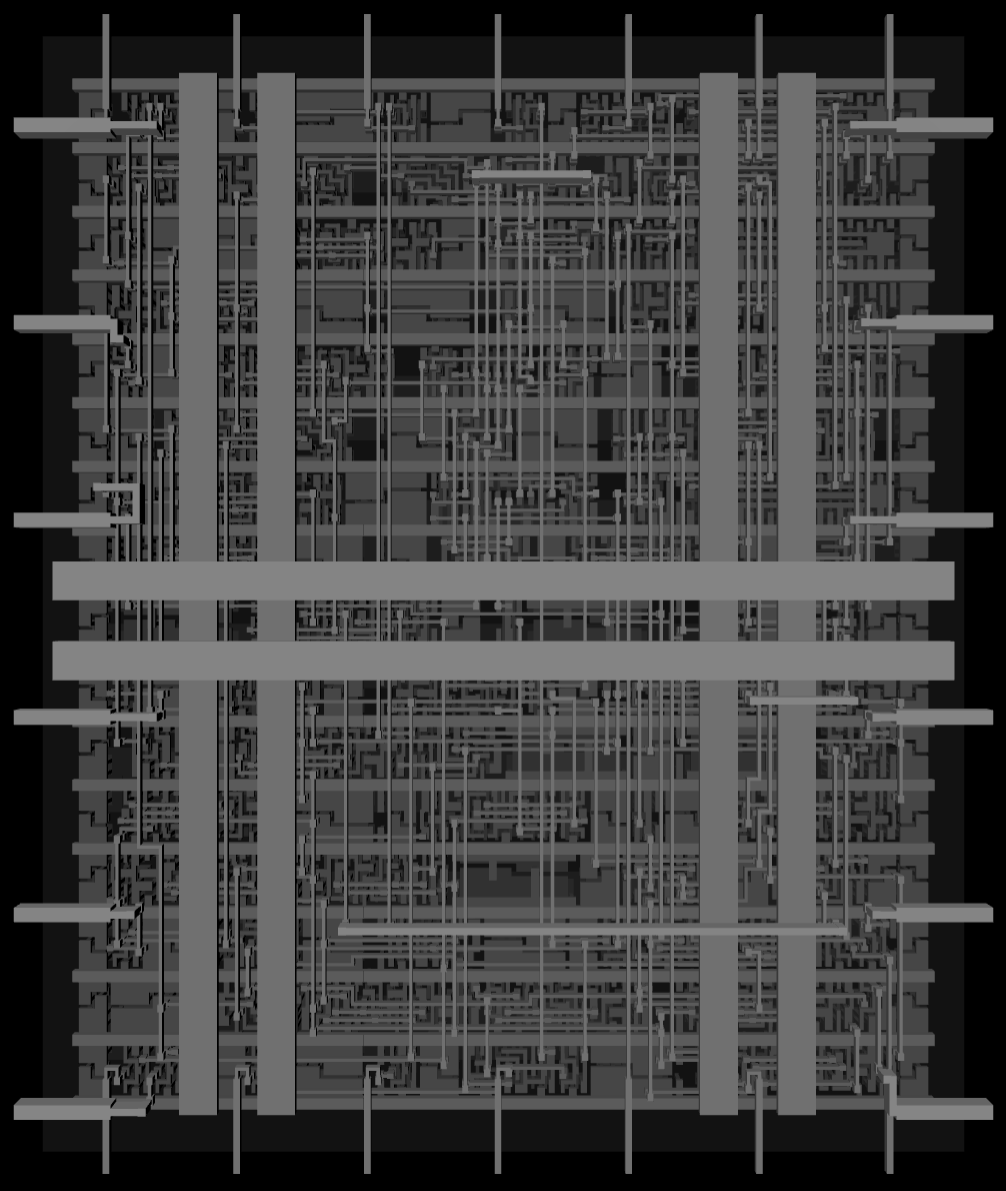
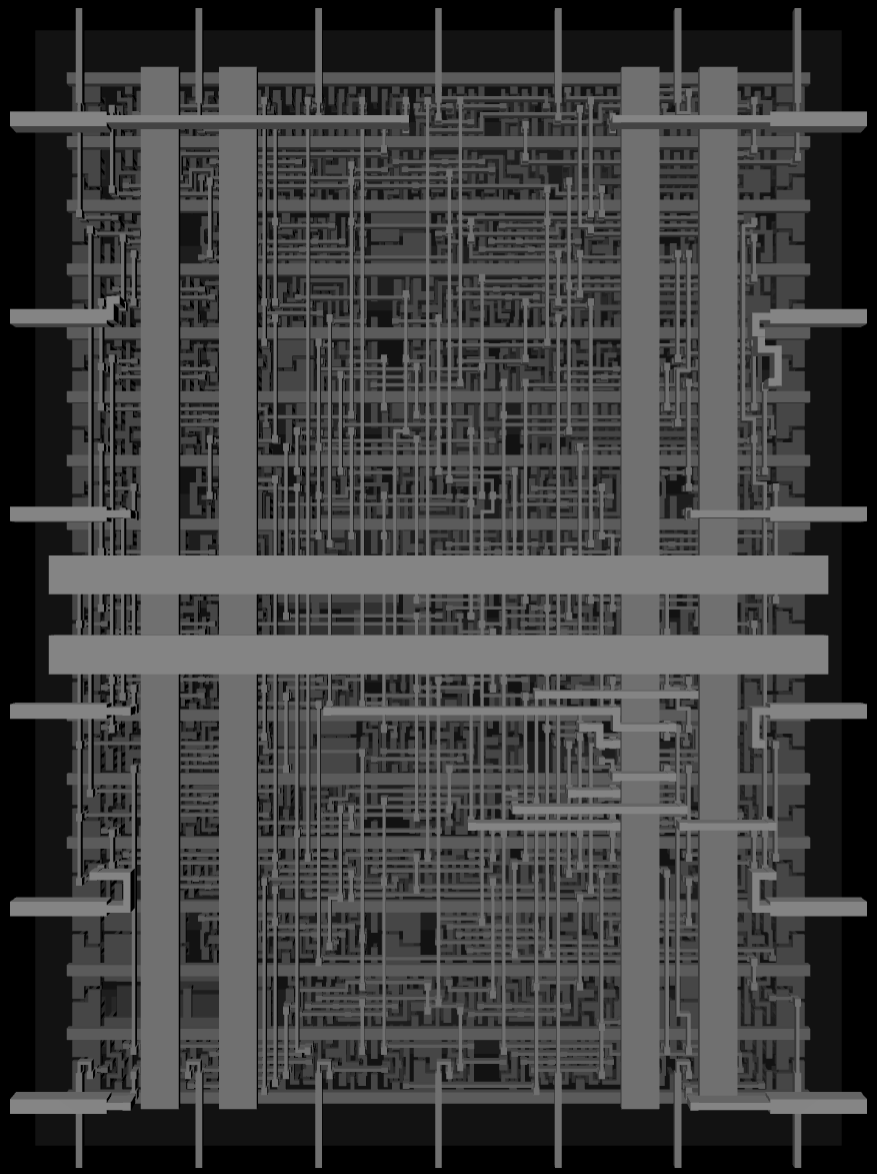
Updated CLB art to reflect change to CLB mk2

diff --git a/README.md b/README.md
@@ -14,19 +14,11 @@
 
 # The CLB
 
- - 8 Logic functions (no LUT\*):
-    - AND3
-    - OR3
-    - XOR3 (doubles as SUM3 with carry out via carry chain)
-    - NAND3 
-    - NOR3 
-    - XNOR3 
-    - AO21
-    - MUX2
- - 3 Input multiplexers from which inputs can be selected from the 4 horizontal input lanes or the column carry chain
+ - Programmable as a 256 function LUT3 or 1 bit full adder
+ - 3 Input multiplexers from which inputs can be selected from various input sources
+ - Column carry chains with dedicated carry generation logic
  - 8 Output multiplexers which determine the signals propagated to the CLBs above and to the right
  - 1 synchronously resettable D flip-flop with a fixed enable line and a shared column clock
 
-\* This was done to save space.
 ![The CLB itself](docs/clb.png)
 ![Exploded CLB](docs/clb_exploded.png)
